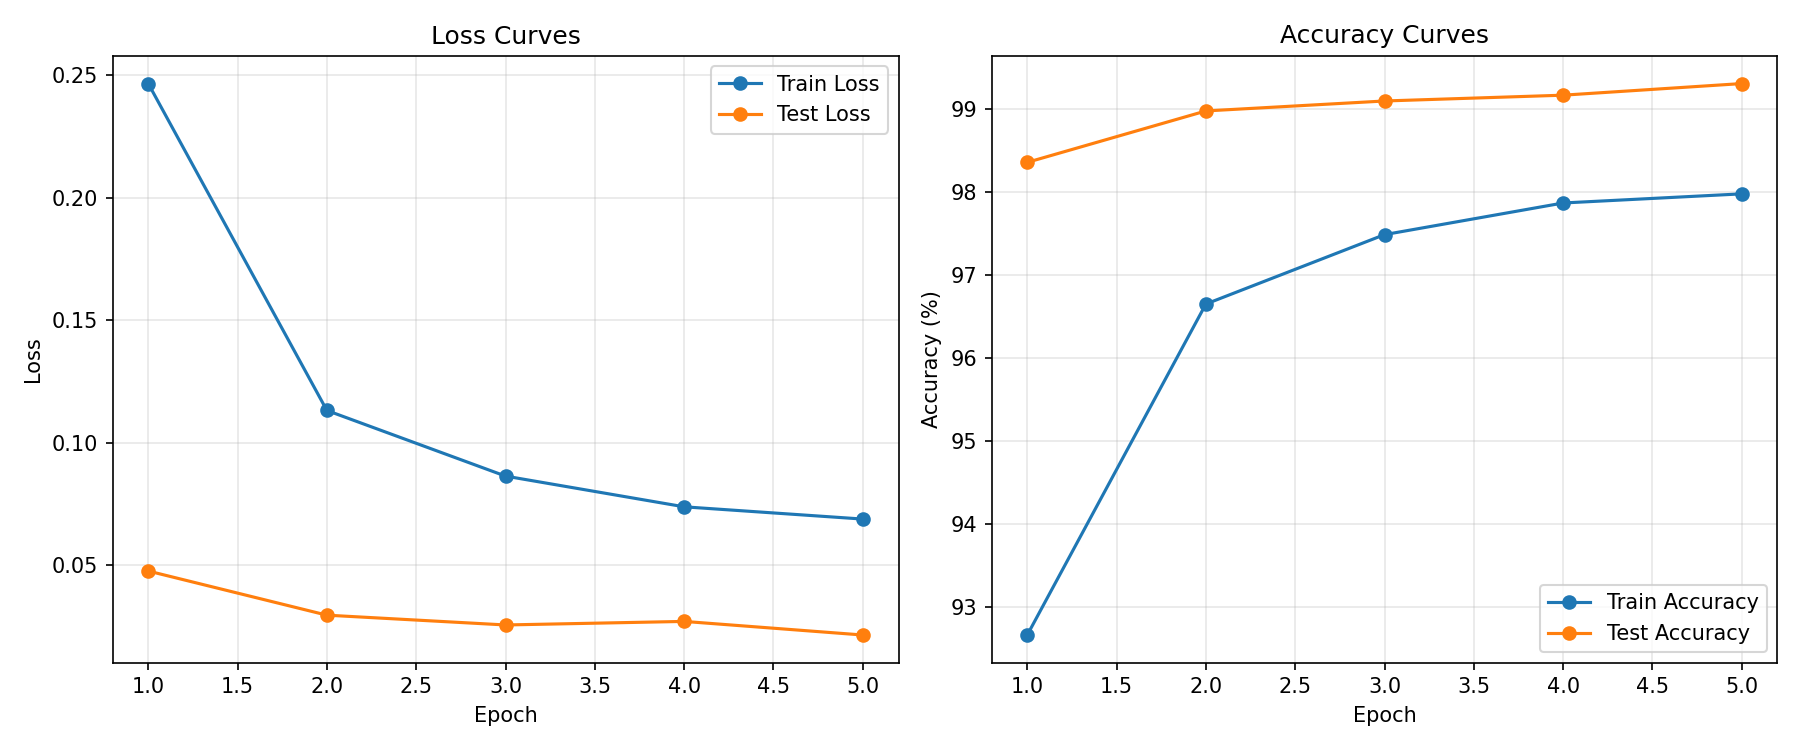
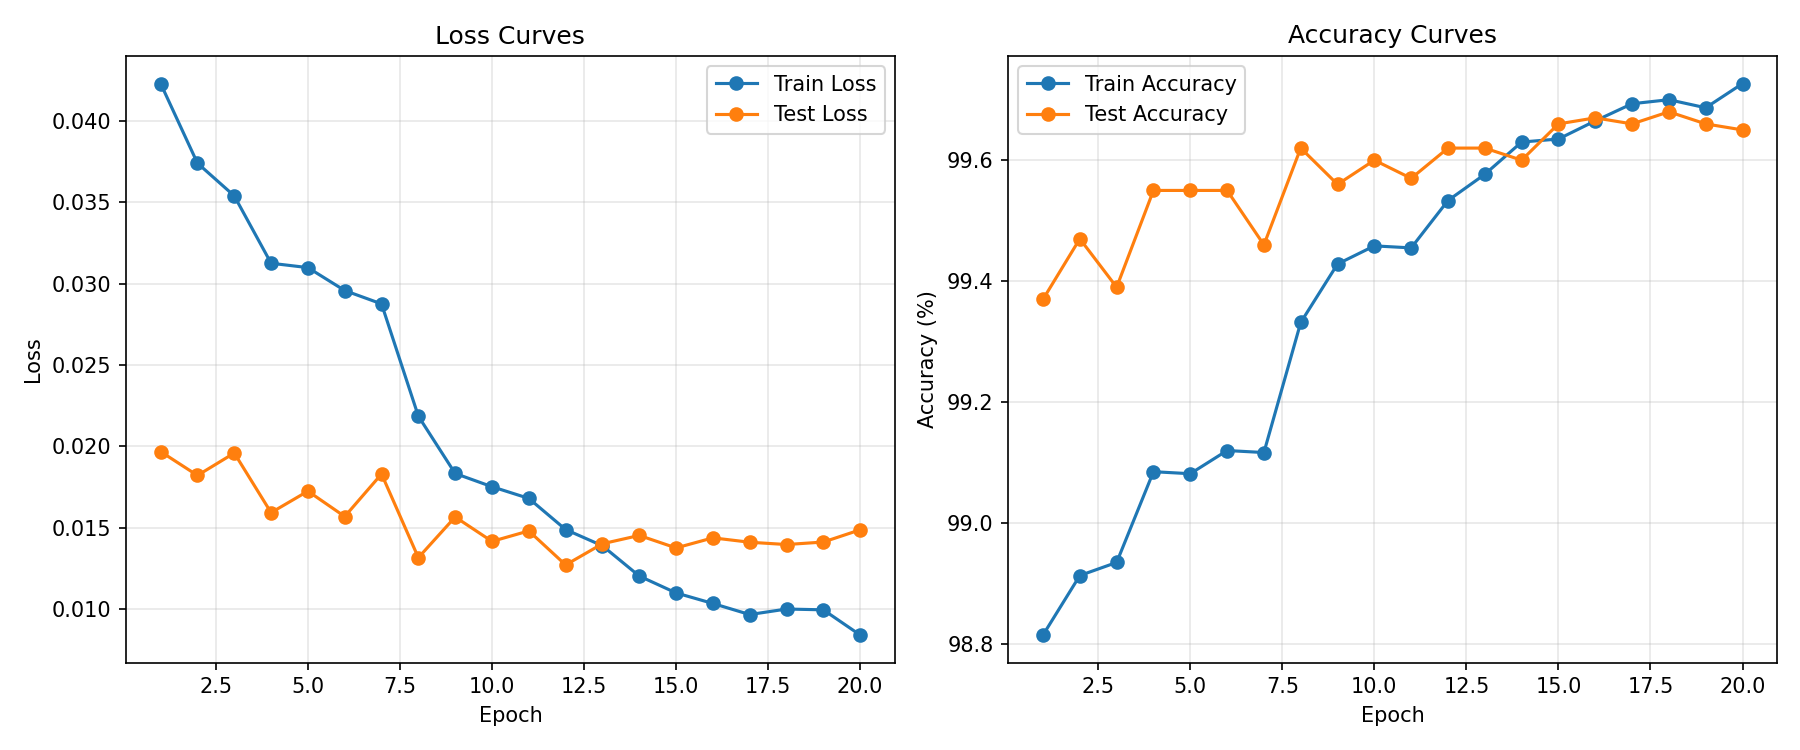
degug

diff --git a/AI/main.py b/AI/main.py
@@ -2,6 +2,7 @@ import argparse
 import csv
 import json
 import os
+from pathlib import Path
 import time
 
 import torch
@@ -10,9 +11,14 @@ import torch.optim as optim
 from torch.utils.data import DataLoader
 from torchvision import datasets, transforms
 
-from evaluate import evaluate
-from model import MNISTCNN
-from train import train
+try:
+    from .evaluate import evaluate
+    from .model import MNISTCNN
+    from .train import train
+except ImportError:
+    from evaluate import evaluate
+    from model import MNISTCNN
+    from train import train
 
 try:
     import matplotlib.pyplot as plt
@@ -123,24 +129,38 @@ def main():
 
     parser.add_argument("--download", action="store_true")
 
+    default_model_path = Path("backend") / "storage" / "models" / "original" / "mnist_cnn.pt"
     parser.add_argument(
         "--model-path",
         type=str,
-        default= "backend\\storage\\models\\original\\mnist_cnn.pt"
+        default=str(default_model_path),
+        help="Path to save or load the MNIST model checkpoint",
     )
-    print(f"Default model path: {parser.get_default('model_path')}")
-
-    parser.add_argument("--save-model", action="store_true")
+    parser.add_argument(
+        "--device",
+        choices=["cpu", "cuda"],
+        default="cuda" if torch.cuda.is_available() else "cpu",
+        help="Device to use for training and evaluation",
+    )
+    parser.add_argument(
+        "--no-save-model",
+        action="store_false",
+        dest="save_model",
+        help="Do not save the trained model checkpoint",
+    )
 
     args = parser.parse_args()
 
-    device = torch.device(
-        "cuda" if torch.cuda.is_available() else "cpu"
-    )
+    if args.device == "cuda" and not torch.cuda.is_available():
+        raise RuntimeError("CUDA device requested but not available")
 
+    device = torch.device(args.device)
     print(f"Using device: {device}")
+    if device.type == "cuda":
+        print(f"GPU: {torch.cuda.get_device_name(0)}")
+        print(f"CUDA Version: {torch.version.cuda}")
 
-    print(f"Default model path: {parser.get_default('model_path')}")
+    print(f"Default model path: {default_model_path}")
 
     transform = transforms.Compose(
         [
@@ -163,12 +183,13 @@ def main():
         transform=transform,
     )
 
+    use_cuda = device.type == "cuda"
     train_loader = DataLoader(
         train_dataset,
         batch_size=args.batch_size,
         shuffle=True,
         num_workers=2,
-        pin_memory=True,
+        pin_memory=use_cuda,
     )
 
     test_loader = DataLoader(
@@ -176,7 +197,7 @@ def main():
         batch_size=args.test_batch_size,
         shuffle=False,
         num_workers=2,
-        pin_memory=True,
+        pin_memory=use_cuda,
     )
 
     model = MNISTCNN().to(device)
@@ -204,13 +225,13 @@ def main():
     }
 
     best_acc = 0.0
+    checkpoint_path = Path(args.model_path)
 
-    if os.path.exists(args.model_path):
-        print(f"Loading existing checkpoint: {args.model_path}")
-
+    if checkpoint_path.exists():
+        print(f"Loading existing checkpoint: {checkpoint_path}")
         model.load_state_dict(
             torch.load(
-                args.model_path,
+                checkpoint_path,
                 map_location=device,
             )
         )
@@ -258,16 +279,8 @@ def main():
             best_acc = test_acc
 
             if args.save_model:
-                os.makedirs(
-                    os.path.dirname(args.model_path),
-                    exist_ok=True,
-                )
-
-                torch.save(
-                    model.state_dict(),
-                    args.model_path,
-                )
-
+                checkpoint_path.parent.mkdir(parents=True, exist_ok=True)
+                torch.save(model.state_dict(), checkpoint_path)
                 print(
                     f"Best model saved "
                     f"(Accuracy: {best_acc:.2f}%)"

diff --git a/streamlit_app.py b/streamlit_app.py
@@ -10,7 +10,12 @@ import streamlit as st
 from PIL import Image
 from streamlit_drawable_canvas import st_canvas
 
-from backend.ml import predict_with_model
+from backend.ml import (
+    default_device,
+    ensure_storage_layout,
+    predict_with_model,
+    train_model,
+)
 
 
 # Custom CSS for better styling and mobile optimization
@@ -31,7 +36,8 @@ CUSTOM_CSS = """
 ROOT_DIR = Path(__file__).resolve().parent
 BACKEND_DIR = ROOT_DIR / "backend"
 STORAGE_DIR = BACKEND_DIR / "storage"
-MODELS_DIR = Path(r"backend\storage\models")
+MODELS_DIR = STORAGE_DIR / "models"
+ORIGINAL_MODEL_PATH = MODELS_DIR / "original" / "mnist_cnn.pt"
 REGISTRY_PATH = STORAGE_DIR / "model_registry.json"
 
 def _load_registry() -> List[Dict[str, Any]]:
@@ -59,7 +65,7 @@ def _resolve_model_path(record: Dict[str, Any]) -> Optional[Path]:
 
     model_id = record.get("id")
     if model_id == "original":
-        candidate = MODELS_DIR / "original" / "mnist_cnn.pt"
+        candidate = ORIGINAL_MODEL_PATH
         if candidate.exists():
             return candidate
     if isinstance(model_id, str) and model_id.startswith("temp-"):
@@ -86,7 +92,7 @@ def _load_models() -> List[Dict[str, Any]]:
         )
 
     if not models:
-        fallback = MODELS_DIR / "original" / "mnist_cnn.pt"
+        fallback = ORIGINAL_MODEL_PATH
         if fallback.exists():
             models.append(
                 {
@@ -119,9 +125,28 @@ st.set_page_config(page_title="Handwritten Digit Studio", page_icon="9", layout=
 st.title("Handwritten Digit Studio")
 st.caption("Draw a digit, upload an image, and test the MNIST checkpoint directly in Streamlit.")
 
+ensure_storage_layout()
 models = _load_models()
 if not models:
-    st.error("No trained model checkpoint was found. Put a model at backend/storage/models/original/mnist_cnn.pt.")
+    st.error("No trained model checkpoint was found.")
+    st.write(
+        "This app can train a new original MNIST model and save it to "
+        f"{ORIGINAL_MODEL_PATH}."
+    )
+    if st.button("Train original model now"):
+        with st.spinner("Training original MNIST model on the best available device..."):
+            train_model(
+                base_model_path=None,
+                output_path=ORIGINAL_MODEL_PATH,
+                epochs=3,
+                lr=1e-3,
+                batch_size=64,
+                test_batch_size=1000,
+                download=True,
+                device=default_device(),
+            )
+        st.success(f"Model trained and saved to {ORIGINAL_MODEL_PATH}.")
+        st.experimental_rerun()
     st.stop()
 
 with st.sidebar:

diff --git a/AI/predict_handwritten.py b/AI/predict_handwritten.py
@@ -7,7 +7,10 @@ from PIL import Image, ImageDraw
 import torch
 from torchvision import transforms
 
-from model import MNISTCNN
+try:
+    from .model import MNISTCNN
+except ImportError:
+    from model import MNISTCNN
 
 
 def otsu_threshold(gray):

diff --git a/AI/__init__.py b/AI/__init__.py
@@ -1,0 +1,1 @@
+# AI package initializer